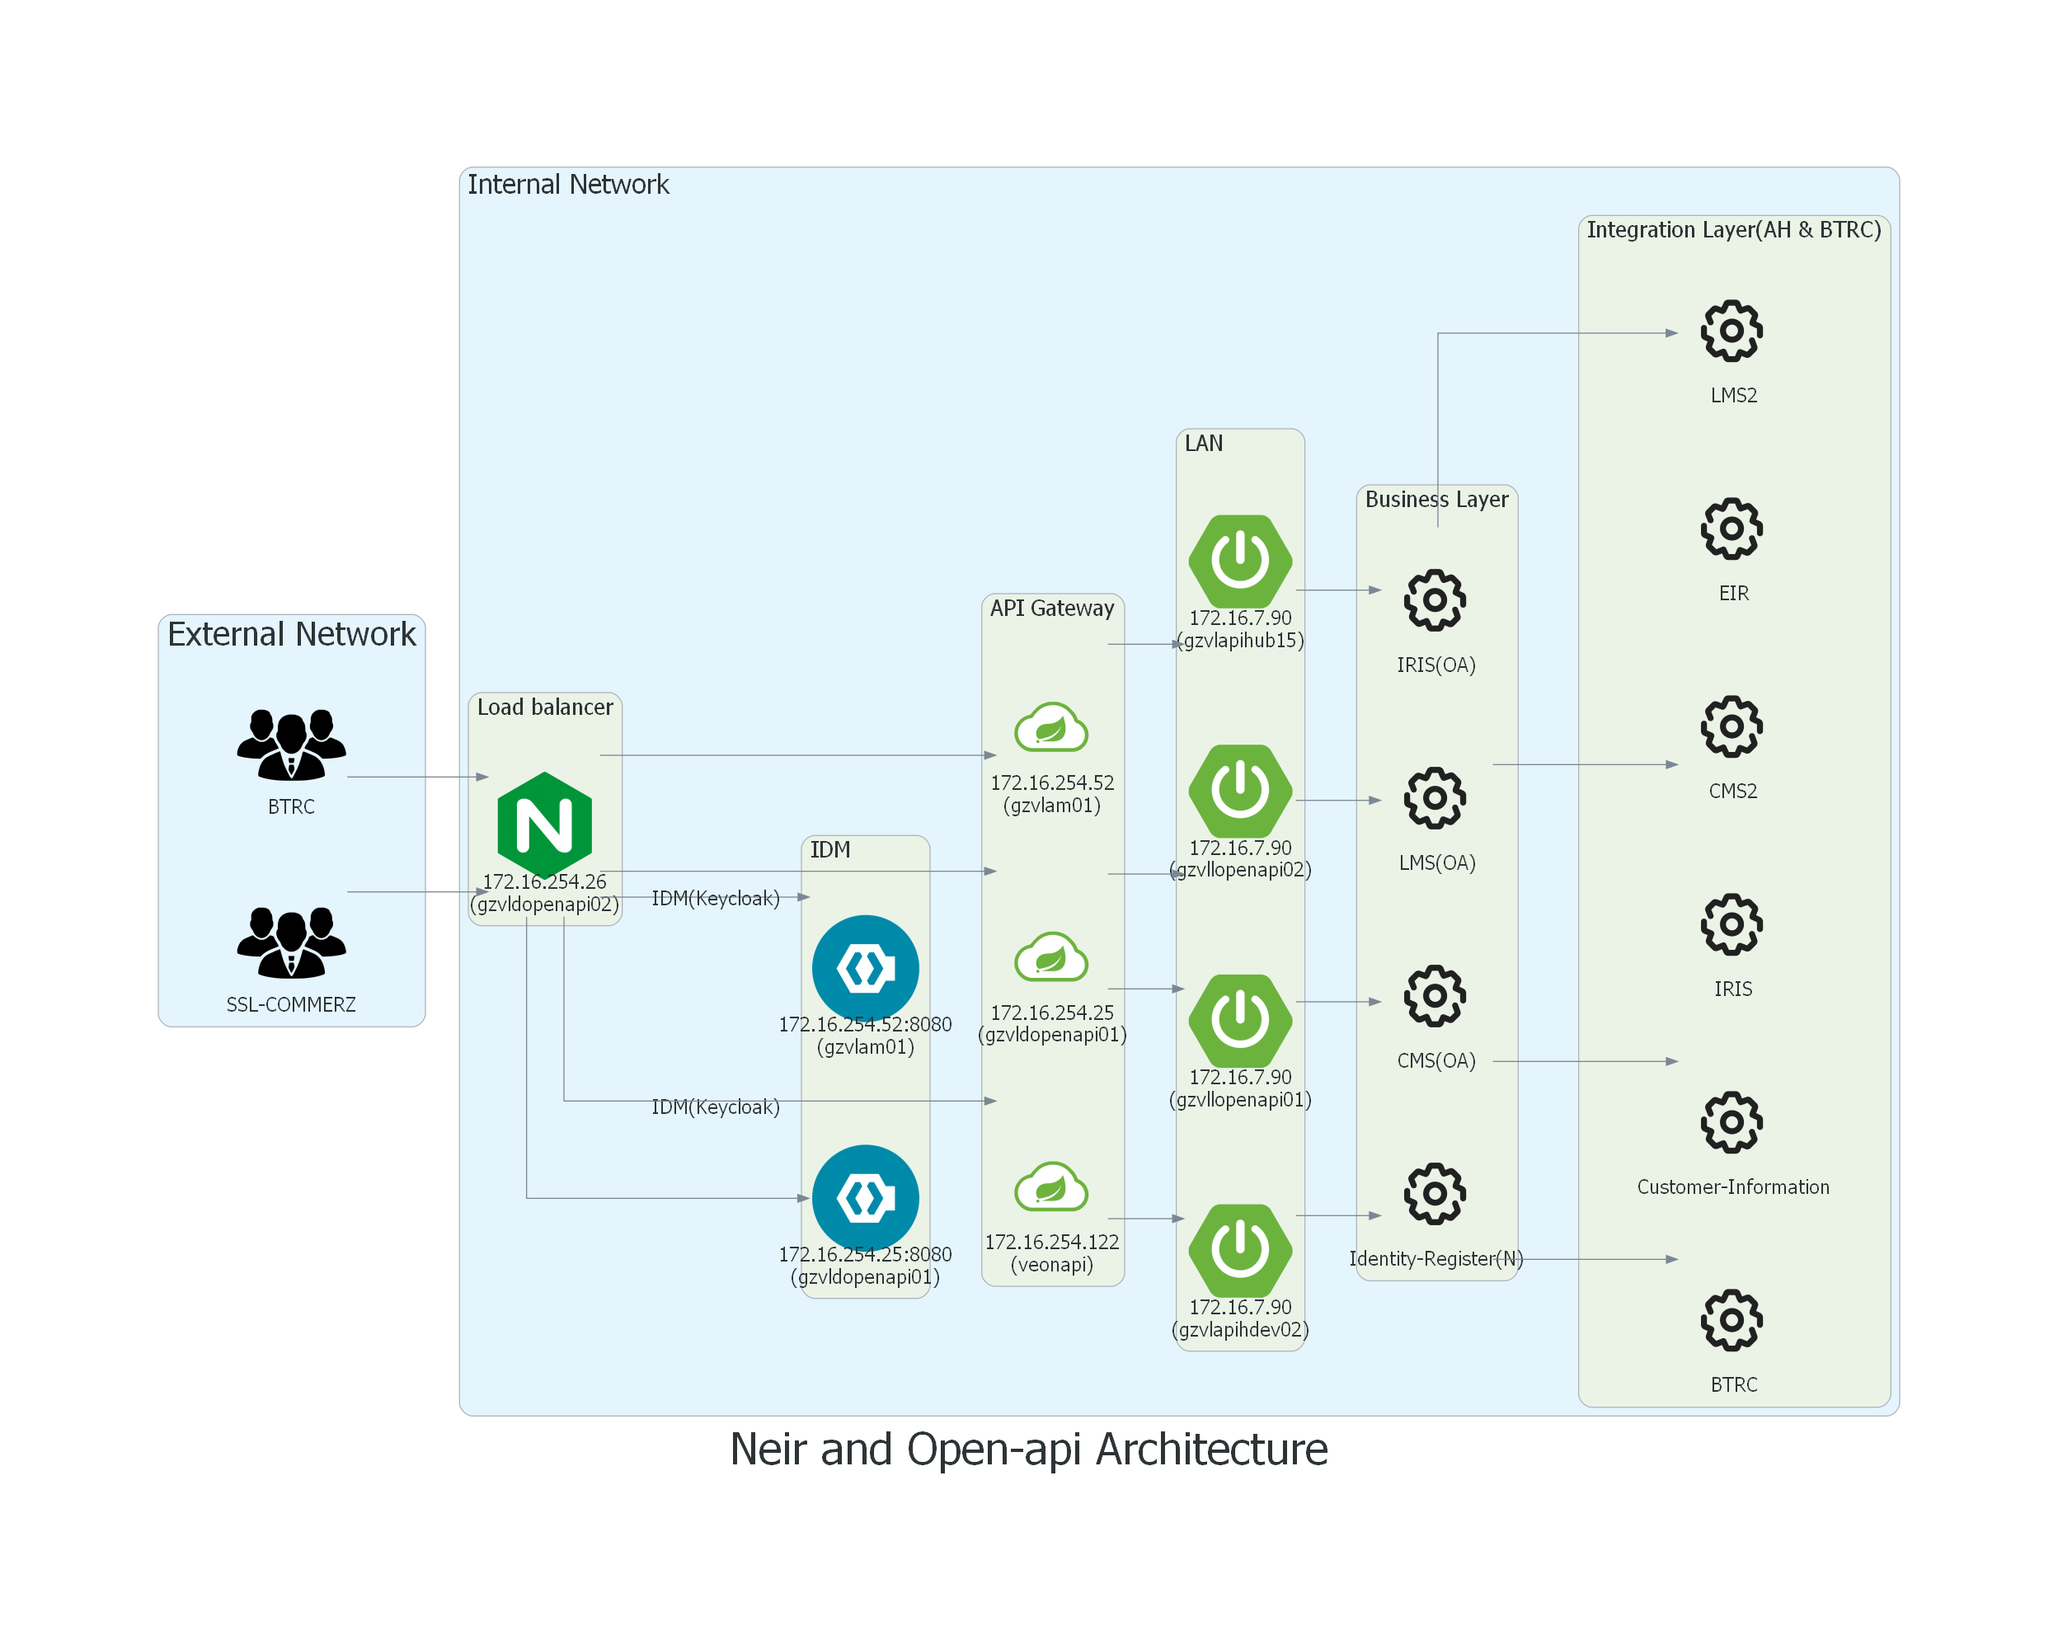
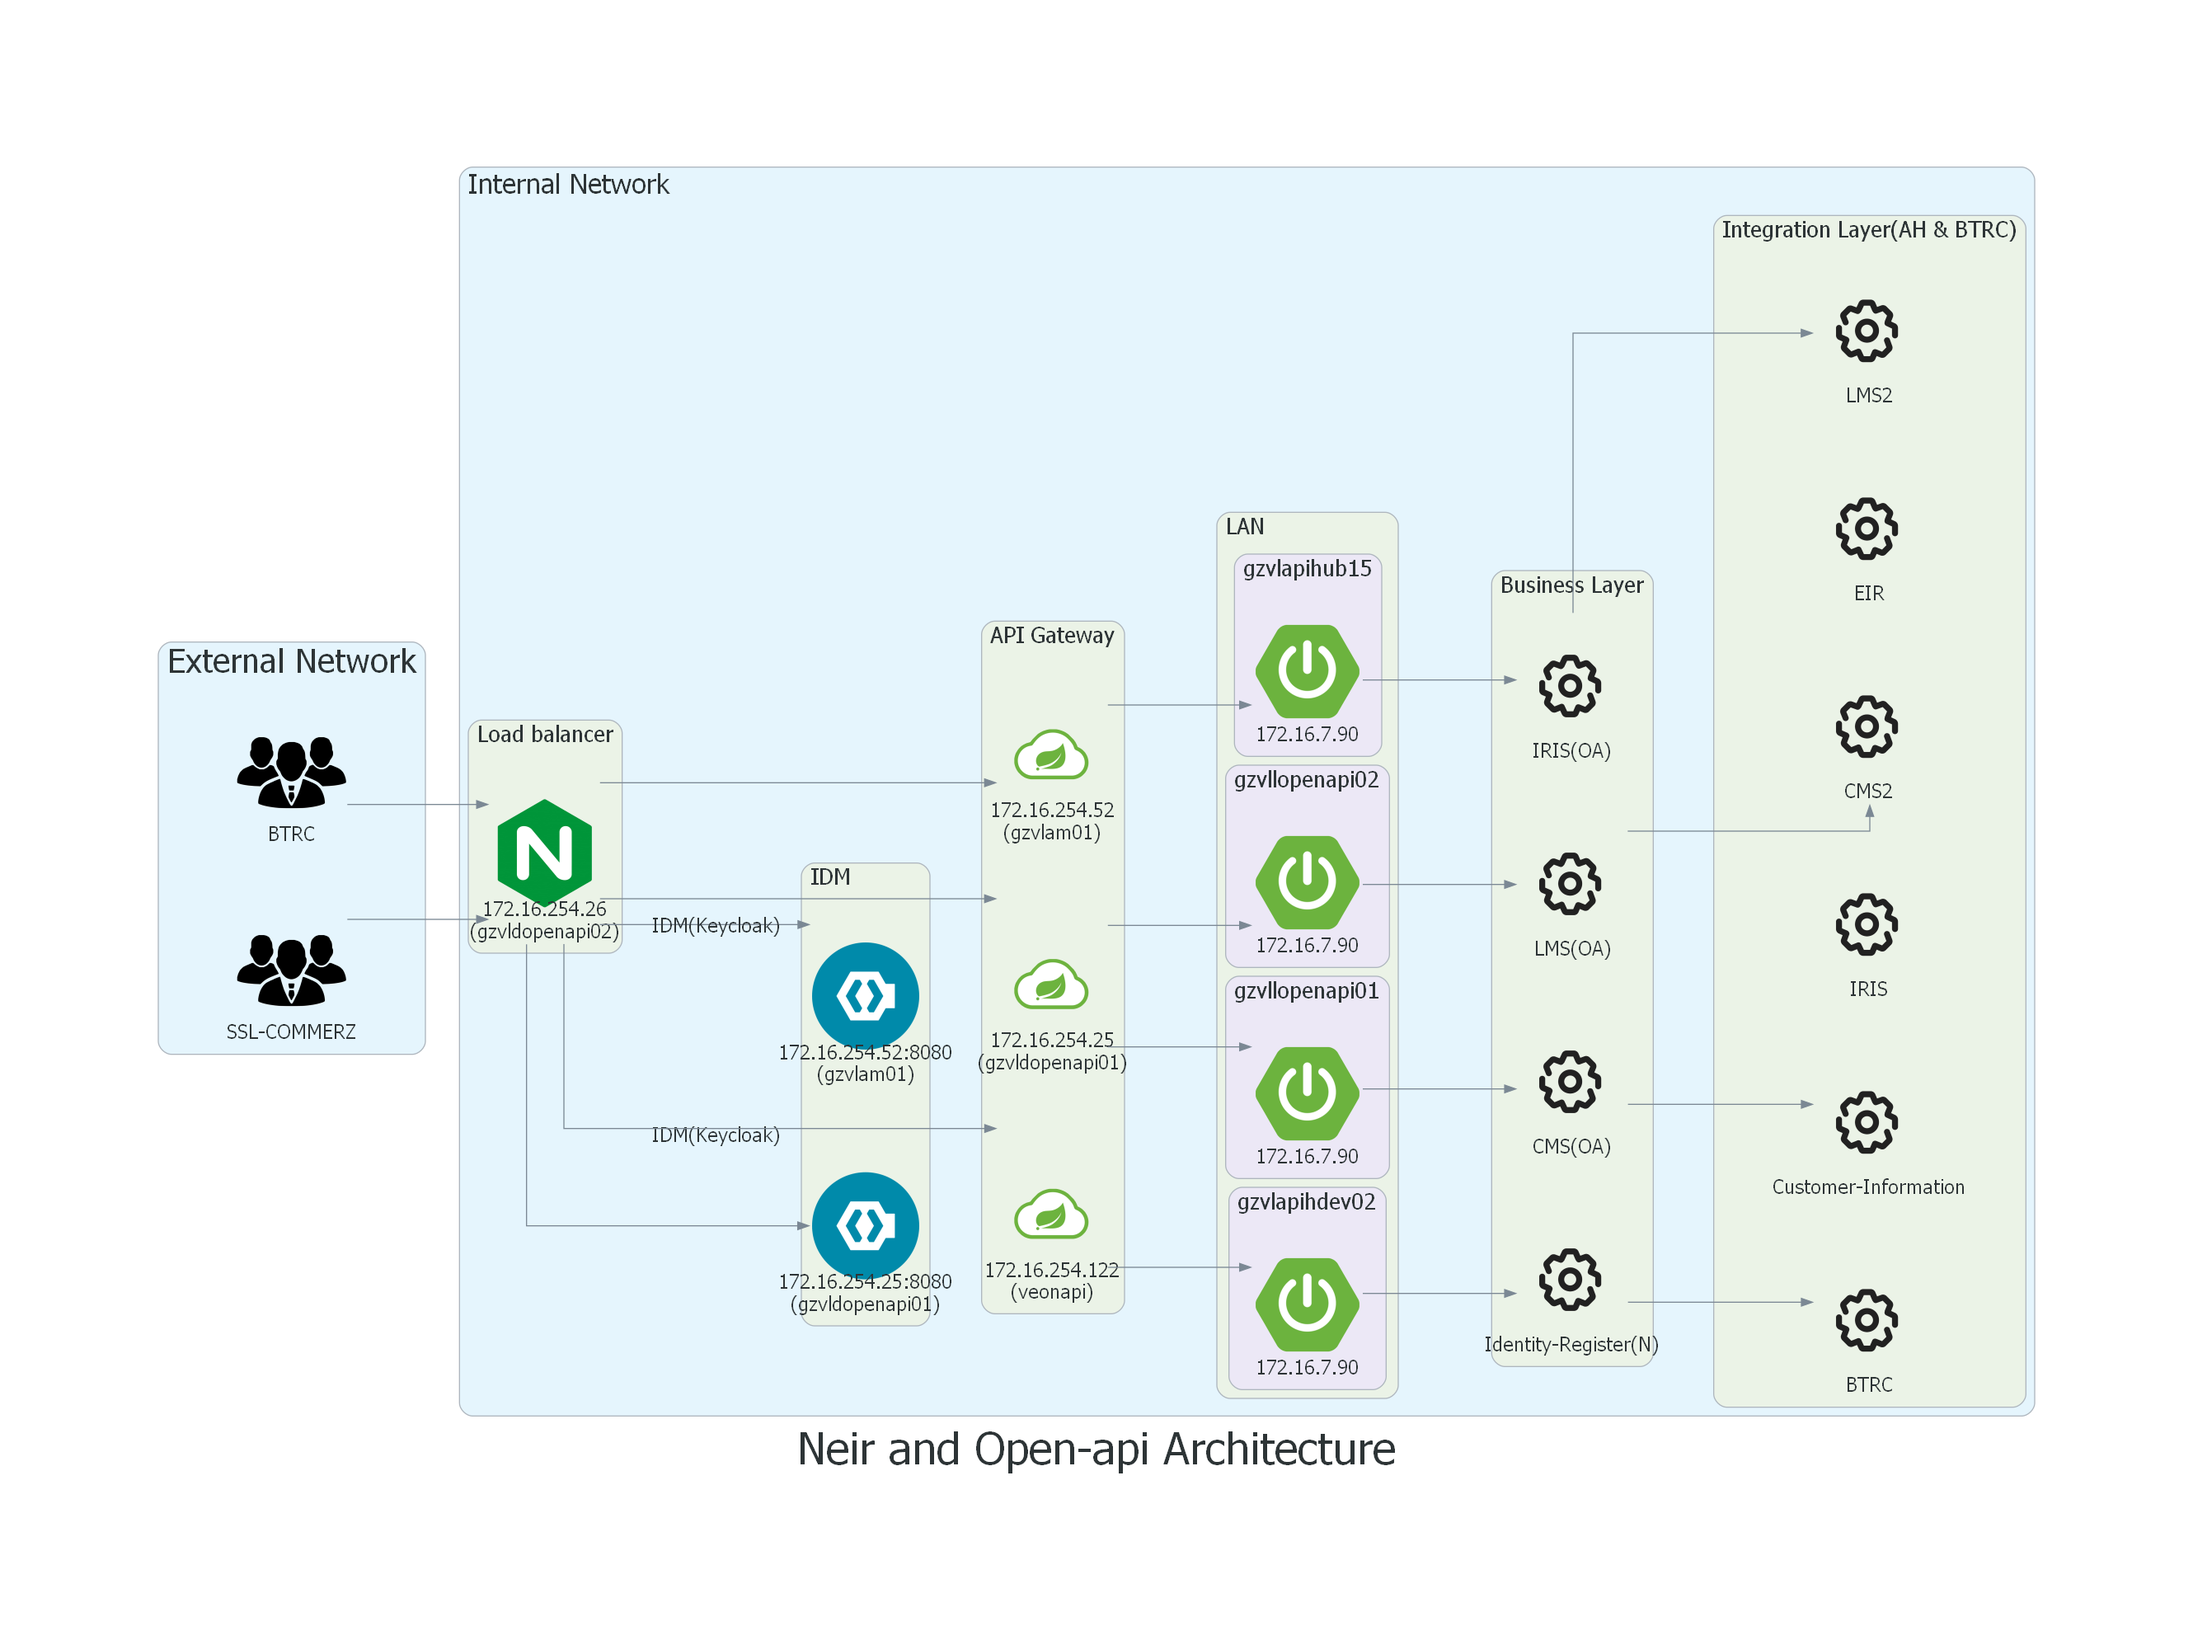
update 1

diff --git a/FinalDiagram.py b/FinalDiagram.py
@@ -20,21 +20,15 @@ graph_attr={
     "fontweight":"bold"
 }
 graph_in={
-    "pos":"150,10!",
     "fontsize":"25"
 }
 graph_ex={
-    "fontsize":"30",
-    "width":"450px",
-    "pos":"10,10!"
+    "fontsize":"30"
     }
 graph_font={
-    "pos":"10,10!",
     "fontsize":"20",
 }
-graph_font1={
-    "fontsize":"15"
-}
+
 
 with Diagram("Neir and Open-api Architecture", show=True,graph_attr=graph_attr):
     
@@ -59,10 +53,15 @@ with Diagram("Neir and Open-api Architecture", show=True,graph_attr=graph_attr):
             apiG2 = Custom("172.16.254.52\n(gzvlam01)",apiGateway,fontsize="18px")
 
         with Cluster("LAN",graph_attr=graph_font):
-            lan1 = Custom("172.16.7.90\n(gzvlapihdev02)",LAN,fontsize="18px")
-            lan2 = Custom("172.16.7.90\n(gzvllopenapi01)",LAN,fontsize="18px")
-            lan3 = Custom("172.16.7.90\n(gzvllopenapi02)",LAN,fontsize="18px")
-            lan4 = Custom("172.16.7.90\n(gzvlapihub15)",LAN,fontsize="18px")
+            with Cluster('gzvlapihdev02',graph_attr=graph_font):
+                lan1 = Custom("172.16.7.90",LAN,fontsize="18px")
+            with Cluster('gzvllopenapi01',graph_attr=graph_font):
+                lan2 = Custom("172.16.7.90",LAN,fontsize="18px")
+            with Cluster('gzvllopenapi02',graph_attr=graph_font):
+                lan3 = Custom("172.16.7.90",LAN,fontsize="18px")
+            with Cluster('gzvlapihub15',graph_attr=graph_font):
+                lan4 = Custom("172.16.7.90",LAN,fontsize="18px")
+           
             
         with Cluster("Business Layer",graph_attr=graph_font):
             bl1 =  Custom("Identity-Register(N)",srvc,fontsize="18px")
